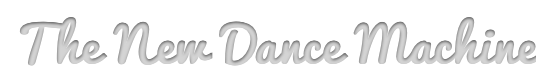
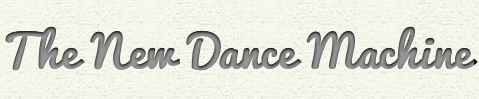
Header floating

diff --git a/projects/index.html b/projects/index.html
@@ -23,20 +23,30 @@
 </head>
 
 <body>
-	<div class="container">
-	<header class="grid_12">
-		<h1 class="grid_8">The New Dance Machine</h1>
-		<div class="socialmedia">
-			<a href="https://twitter.com/TNDM_DJservice"></a>
-			<img width="57px" height="57px" src="images/Twitter_Icon.png" alt="titter icon"/>
-			
-			<a href="https://www.facebook.com/pages/The-New-Dance-Machine/177951172234999"></a>
-			<img width="57px" height="57px" src="images/facebook_icon.png" alt="facebook icon"/>
-			<a href="http://www.pinterest.com/djshauntndm/"></a>
-			<img width="57px" height="57px" src="images/pinterest-icon.png" alt="pinterest icon"/>
-		</div>
+	
+	<header>
+	<div id="header">
 		
+
+	<div class="logo"><a href="#"></a><img width="285px" height="225px" src="images/viewlogo.png" alt="logo"/>				
+
+	</div>
+		<div><h1 class="title">The New Dance Machine</h1>
+		
+					<div class="socialmedia">
+					
+					<a  href="https://twitter.com/TNDM_DJservice"></a>
+					<img width="57px" height="57px" src="images/Twitter_Icon.png" alt="titter icon"/>
+				
+					<a href="https://www.facebook.com/	pages/The-New-Dance-Machine/177951172234999"></a>
+					<img width="57px" height="57px" src="images/facebook_icon.png" alt="facebook icon"/>
+					<a href="http://www.pinterest.com/djshauntndm/"></a>
+					<img width="57px" height="57px" src="images/pinterest-icon.png" alt="pinterest icon"/></div>
+				</div> 
+		</div>
+	</div>		
 	</header>
+		<div class="container">
 	<nav class="grid_12">
 		<ul>
 			<li><a href="index.html">Home</a></li>
@@ -47,8 +57,7 @@
 			<li><a href="contact_us.html">Contact us</a></li>
 		</ul>
     </nav>
-    
-    <iframe width="960" height="540" src="//www.youtube-nocookie.com/embed/8Luzg5C3O4o" frameborder="0" allowfullscreen></iframe>		
+	<iframe width="960" height="540" src="//www.youtube-nocookie.com/embed/8Luzg5C3O4o" frameborder="0" allowfullscreen></iframe>		
     
     <section class="grid_4 alpha">
     	<h2>Success Stories</h2>
@@ -65,11 +74,12 @@
 			<p>The New Dance Machine offers several different types of DJ services. From spinning the ones and twos at school dances, to transforming wedding venues with our beautiful up-lighting. Our Wedding DJ's are experienced, professional, and set the standard for Green Bay DJ's. Feel free to explore the site, email, or give us a call for more information.</p>
 			<img src="images/home_services_img.png" alt="up-lighting" /> 
 			
-	</section>
+	</section>	</div><!-- container -->
+
 	<footer class="grid_12"><p>Copyright &copy; The New Dance Machine DJ service 2013</p>
 	</footer>
-	</div><!-- container -->
+	
 	<script type="text/javascript" src="http://ajax.googleapis.com/ajax/libs/jquery/1.9.0/jquery.min.js"></script>
 	<script src="js/scripts.js"></script>
 </body>
-</html>
+</html> 

diff --git a/projects/css/style.css b/projects/css/style.css
@@ -11,16 +11,6 @@ body {
 	background-image: url('../images/bg-texture_image.png');
 }
 
-
-nav li {
-	display: block;
-	float: left;
-	width: 100px;
-	margin: 0 auto;
-
-}
-   
-   
 @font-face {
     font-family: "Pacifico";
     src: url("../fonts/pacifico/Pacifico.ttf");
@@ -28,38 +18,95 @@ nav li {
 
 h1, h2, h3{
     font-family: Pacifico, arial;
- }
- 
-h1 {
-	margin: 0;
-	font-size: 50px;
-	background-color: black;
-	color: transparent;
-	text-shadow: 0 2px 3px rgba(255,255,255,0.36);
-	-webkit-background-clip: text;
 }
-
 
 h2 {
 	text-align: center;
 	text-decoration: underline;
 }
 
-nav {
-	font-family: pacifico;
-	text-align: center;
-}
-
-.movie {
-	margin: 33.5px;
-}
 
 p {
 	font-family: oriya MN, arial;
 }
+/*------------------HEADER---------------------*/
+#header {
+	width: 100%;
+	height: 100px;
+	background: url('../images/bg_text_texture.png');
+	border: red 1px solid;
+}
+
+.logo {
+	border: 2px red solid;
+	width: 150px;
+	height: 165px;
+	background: url('../images/bg_text_texture.png');
+	box-shadow: 0px 1px 10px black;
+	margin-left: 10.416667%;
+	display: block;
+	float: left;
+}
+
+.logo img {
+	padding: 25px 0px;
+}
+
+.title {
+	width: 480px;	
+	margin: 0 auto;
+	height: 100px;
+	background: url("../images/header_letterpress.png") no-repeat;
+	text-indent: -9999px;
+	border: red 1px solid;
+	float: left;	
+}
+
+
+.socialmedia {
+	width: 180px;	
+	margin: 0 auto;
+	height: 100px;
+	line-height: 100px;
+	border: red 1px solid;	
+	float: left;
+}
+
+/*--------------NAV----------------------------*/
+
+
+nav li {
+	display: block;
+	float: left;
+	height: 100px;
+	font-family: pacifico;
+	text-align: center;
+	width: 115px;
+}
+   
+/*
+h1 {
+	margin: 0;
+	line-height: 100px;
+	font-size: 45px;
+	background-color: black;
+	color: transparent;
+	text-shadow: 0 2px 3px rgba(255,255,255,0.36);
+	-webkit-background-clip: text;
+	
+}
+
+@-moz-document url-prefix() { ---my content-- }*/
+
+
+
+/*-----------------------FOOTER---------------*/
 
 footer {
+	width: 100%;
+	background-color: white;
 	text-align: center;
+	
 }
 /* =============================================================================
    Page Styles
@@ -73,7 +120,19 @@ footer {
 @media only screen and (min-width: 768px) and (max-width: 995px) {}
 
 /* All Mobile Sizes */
-@media only screen and (max-width: 767px) {}
+@media only screen and (max-width: 768px) {
+
+.logo {
+	width: 100px;
+	height: 100px;
+	background: url('../images/bg_text_texture.png');
+	box-shadow: 0px 1px 10px black;
+	margin-left: 0px;
+	display: block;
+	float: left;
+}	
+
+}
 
 /* Mobile Landscape Size to Tablet Portrait */
 @media only screen and (min-width: 480px) and (max-width: 767px) {}
